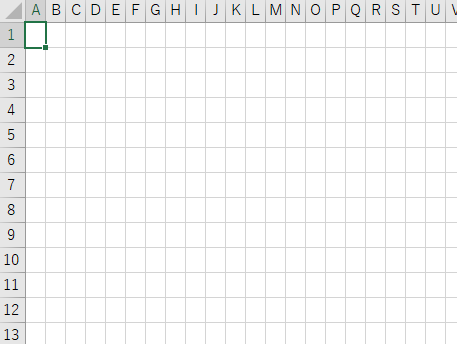
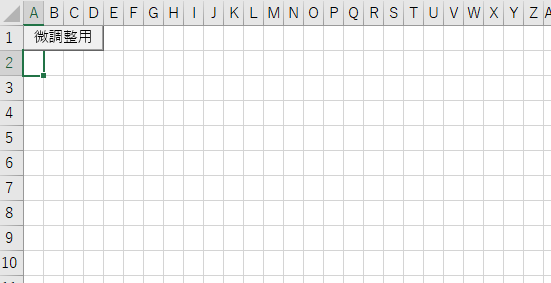
サークル配置図作成支援機能の追記 ・任意の範囲で作成可能に ・作成したくない範囲は始まり終わりを同じにするまたは逆方向にすることで作成されない仕様に ・頭文字だけ変える機能を追加
以上の変更に伴う使い方ページの修正追記

Changed region(s): [[0.0, 0.0, 1.0, 1.0]]

diff --git a/templates/how_to_use.html b/templates/how_to_use.html
@@ -46,6 +46,7 @@
 	<h3>[配置図の作り方]</h3>
 	サークル配置図作成支援シートのマクロを用いた配置図作成の方法を解説します。
 　	<br>　1)生成するブロック名の範囲を選択します。
+　	<be>　　このとき、範囲の始まりと終わりを同じにするか、始まりと終わりが逆の場合、その種類のブロックは生成されません。
 　	<br>　2)入力範囲にブロックごとの配置パターンを入力します。
 	<br>　　※スペース番号にabの区別がある場合は入力例のように1スペースあたりを2列とし、左の列にスペース番号を入力してください
 	<br>　　※入力時は必ずブロック名を1つ入力してください。
@@ -55,6 +56,12 @@
 　	<br>　6)作成が終了したらxlsx形式(マクロが含まれない形式)で保存してください。	
 	<br><img src = "../static/6_2.png" border = 1>
 	<br><img src = "../static/7.png" border = 1>
+	<br><追記>MAPシートにある「微調整用」ボタンについて
+	<br>このボタンは配置のパターンが一定でないイベントを想定して実装したものです。
+	<br> 1)MAPシートのブロック範囲を選択
+	<br> 2)変更したいブロック名を入力
+	<br> 3)選択範囲の配置のブロック名が変わります。
+	<br><img src = "../static/6-3.png" border = 1>
 
 	<h2>3.サークルチェック</h2>
 	1)入力ファイルを選択します。2で作成したファイルを選択してください。(xlsx形式のみ入力できます)
@@ -72,7 +79,7 @@
 	以下に出力例を示します。ただしプライバシー保護のため特定可能な情報は黒塗りで修正しております。
 	<br>LISTシートではサークルチェックの検索条件に一致したサークルの情報についてリスト化し、キャラクター名ごとに色分けされます。サークル名が抽出できなかった場合、"no name"と表示されます。
 	<br>サークルリストでは著者のTwitterIDおよび抽出元ツイートのハイパーリンクが貼られています。クリックすることによりそのリンクに飛ぶことができます。
-	<br>また、MAPシートではLISTシートに対応したスペース番号のセルの背景色がキャラクターごとに色分けされ、カーソルを載せると対応したサークルの情報を表示します。
+	<br>また、MAPシートではLISTシートに対応したスペース番号のセルの背景色がキャラクターごとに色分けされ、ハイパーリンクが貼られていると同時に、カーソルを載せると対応したサークルの情報を表示します。
 	<br>スペース番号にabの区別があるイベントの場合、aのスペースは左のセル、bのスペースは右のセルの背景色が色分けされます。
 	<br><img src = "../static/9.png" border = 1>
 	<br><img src = "../static/10.png" border = 1>
